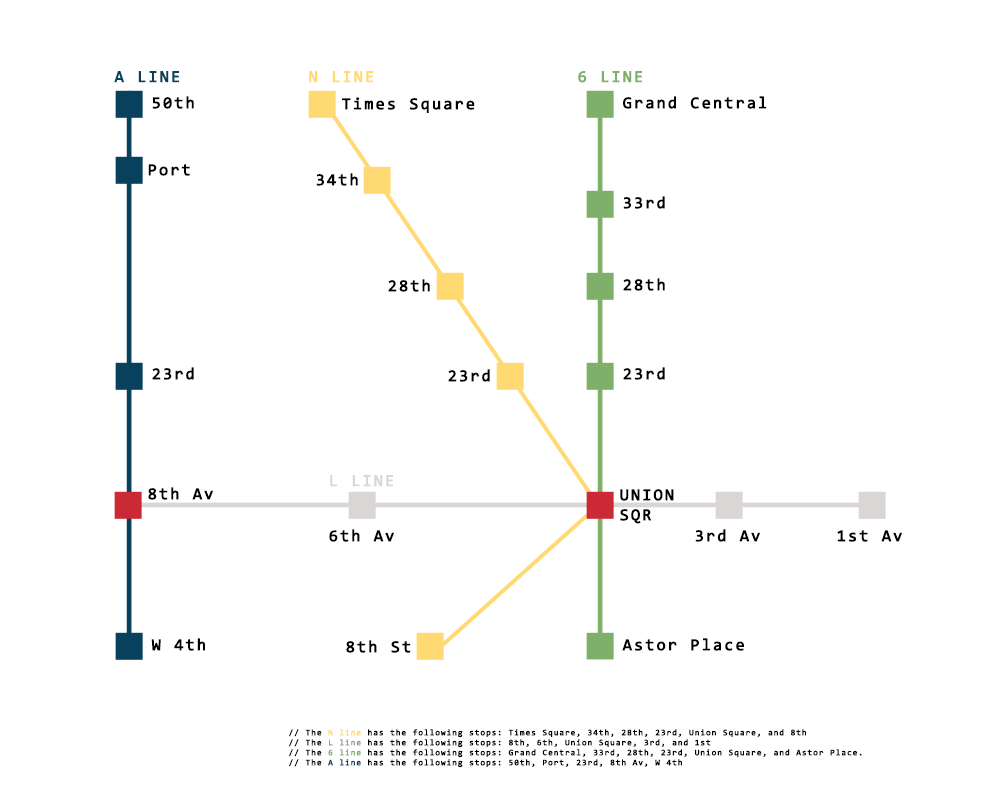
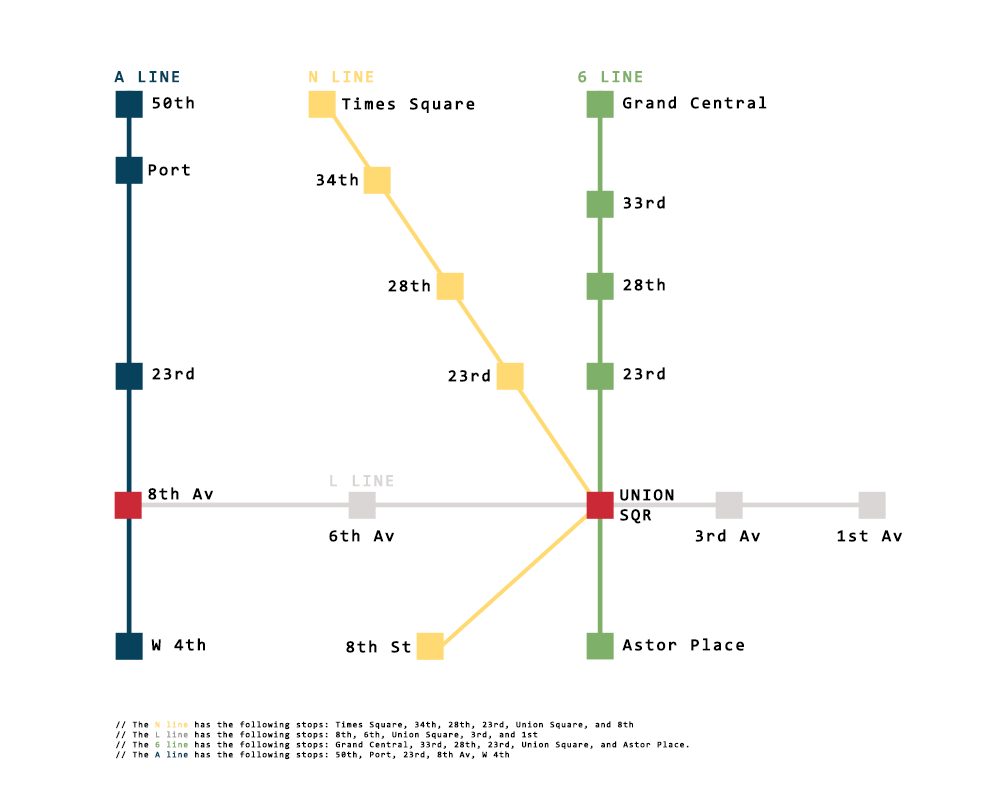
added log for user entering 2 diff lines when they don't need to change re starting point only

Changed region(s): [[0.124, 0.9062, 0.744, 0.9688], [0.775, 0.9062, 0.806, 0.9688]]

diff --git a/madeleine_milasas/week_01/day_05/mta/js/main_rework.js b/madeleine_milasas/week_01/day_05/mta/js/main_rework.js
@@ -11,7 +11,7 @@ const trainLines = {
   L: ['8th Av', '6th Av', 'Union Square', '3rd Av', '1st Av'],
   N: ['Times Square', '34th', '28th (N)', '23rd (N)', 'Union Square', '8th St'],
   6: ['Grand Central', '33rd', '28th (6)', '23rd (6)', 'Union Square', 'Astor Place'],
-  A: ['50th', 'Port', '23rd', '8th Av', 'W 4th']
+  A: ['50th', 'Port', '23rd (A)', '8th Av', 'W 4th']
 };
 const allLines = Object.keys( trainLines );
 
@@ -120,7 +120,13 @@ const planTrip = function ( lOn, sOn, lOff, sOff ) {
     console.log( endStation.error + `\nPlease check your STOP OFF entry and try again.\n----------------------------------` );
     return;
   }
-  // console.log(startLine, endLine);
+
+  // ## check if BOTH STATIONS ARE THE SAME
+  if ( sOn.toUpperCase() === sOff.toUpperCase() ) {
+    console.log( sameStationMsg );
+    return;
+  }
+
   // ** IF START AND END LINES ARE THE SAME **
   if (lOn.toUpperCase() === lOff.toUpperCase()) {
     trip = countStops( startStation.index, endStation.index, startLine.lineArray );
@@ -131,12 +137,26 @@ const planTrip = function ( lOn, sOn, lOff, sOff ) {
   // ** IF START AND END LINES ARE DIFFERENT **
     // find intercept
     const intercept = findIntercept( startLine.lineArray, endLine.lineArray );
-    // console.log( intercept );
+
+    // // ## exception: if user puts starting at an intersection station but enters two different lines
+    // let startStationName = startLine.lineArray[ startStation.index ]; // doing it this way to get correct capitalisation r/less of user input
+    // let interceptStationName = endLine[ intercept.xEndLine ];
+    // console.log( interceptStationName );
+    // // if ( startStationName.toUpperCase() === endLine[ intercept.xEndLine ].toUpperCase() ) {
+    // //   // console.log( `At ${ startStationName }, go straight to the ${ lOff.toUpperCase() } line.` );
+    // // }
+
+    // now evaluate trips...
     // FIRST HALF OF TRIP
     tripA = countStops( startStation.index, intercept.xStartLine, startLine.lineArray );
-    console.log( `You must travel through the following stops on the ${ lOn.toUpperCase() } line: ${ tripA.thru.join(', ') }.` );
-    const interceptStation = startLine.lineArray[ intercept.xStartLine ];
-    console.log( `Change at ${ interceptStation } for the ${ lOff.toUpperCase() } line.` );
+    let interceptStationName = endLine.lineArray[intercept.xEndLine];
+    if (0 === tripA.thru.length) { // if the first leg array is empty, i.e. user mistakenly thinks they need two diff lines
+      console.log( `No need to start on the ${ lOn.toUpperCase() } line.\nGet on the ${ lOff.toUpperCase() } line at ${ interceptStationName }.` );
+    } else {
+      console.log( `You must travel through the following stops on the ${ lOn.toUpperCase() } line: ${ tripA.thru.join(', ') }.` );
+      const interceptStation = startLine.lineArray[ intercept.xStartLine ];
+      console.log( `Change at ${ interceptStation } for the ${ lOff.toUpperCase() } line.` );
+    }
     // SECOND HALF OF TRIP
     tripB = countStops( intercept.xEndLine, endStation.index, endLine.lineArray );
     console.log( `Your journey continues through the following stops: ${ tripB.thru.join(', ') }.` );
@@ -158,6 +178,10 @@ const planTrip = function ( lOn, sOn, lOff, sOff ) {
 // startStationIndex2 = findStation( startLineArray, '8th' );
 
 
+
+
+
+
 const testCases = [
   { lo: 'L', so: '6th Av', lof: 'L', sof: '3rd Av' }, // L line only
   { lo: 'Q', so: '6th Av', lof: 'L', sof: '3rd Av' }, // Bad start line name
@@ -166,10 +190,10 @@ const testCases = [
   { lo: 'L', so: '6th Av', lof: 'N', sof: 'Bar' }, // Bad end station name
   { lo: 'L', so: '8th Av', lof: 'N', sof: '23rd (N)' }, // intercept L and N
   { lo: 'N', so: '8th St', lof: '6', sof: 'Grand Central' }, // intercept N and 6
-  { lo: 'A', so: 'Port', lof: 'L', sof: '1st Av' }, // intercept L and A!
+  { lo: 'A', so: 'Port', lof: 'L', sof: '1st Av' }, // intercept A and L omg A!
+  { lo: 'L', so: '3rd Av', lof: 'A', sof: '50th' }, // intercept L to A
   { lo: 'A', so: 'W 4th', lof: 'a', sof: '50th' }, // just A, also lower case
-  // adding some test cases from first version:
-  { lo: 'L', so: '1st Av', lof: 'L', sof: '8th Av' },  // reverse direction L only
+  { lo: 'L', so: '1st Av', lof: 'L', sof: '8th Av' },  // reverse direction L only ----- this one and ones below from prev version
   { lo: 'N', so: '34th', lof: 'N', sof: '8th St' }, // N line only
   { lo: 'N', so: '8th St', lof: 'N', sof: 'Times Square' },  // reverse direction N only
   { lo: '6', so: 'Grand Central', lof: '6', sof: '23rd (6)' }, // 6 line only
@@ -177,12 +201,13 @@ const testCases = [
   { lo: 'L', so: '8th Av', lof: 'N', sof: 'Times Square' },  // multi lines L to N
   { lo: 'l', so: '1st av', lof: 'n', sof: 'times square' },  // multi lines L to N lower case letters
   { lo: '6', so: 'Astor Place', lof: 'L', sof: '6th Av' },  // multi lines 6 to L
-  { lo: 'N', so: '8th St', lof: '6', sof: '28th (6)' }  // multi lines N to 6
-  // { lo: '6', so: 'Union Square', lof: '6', sof: '33rd' },  // if US is a start on one line
-  // { lo: 'L', so: 'Union Square', lof: '6', sof: '33rd' },  // if US is start but user entered they think they need to change lines
+  { lo: 'N', so: '8th St', lof: '6', sof: '28th (6)' },  // multi lines N to 6
+  { lo: '6', so: 'Union Square', lof: '6', sof: '33rd' },  // if US is a start on one line
+  { lo: 'L', so: 'Union Square', lof: '6', sof: '33rd' },  // if US is start but user entered they think they need to change lines
+  { lo: 'A', so: '8th Av', lof: 'L', sof: '1st Av' },  // if 8th Av is start but user entered they think they need to change lines
   // { lo: 'N', so: '34th', lof: 'L', sof: 'Union Square' },  // if US is destination but user entered they think they need to change lines
-  // { lo: 'L', so: '3rd', lof: 'L', sof: '3rd' },  // if both stations the same (same station same line)
-  // { lo: 'N', so: 'Union Square', lof: '6', sof: 'Union Square' }  // if both stations are Union Square
+  { lo: 'A', so: '23rd (A)', lof: 'A', sof: '23rd (A)' },  // if both stations the same (same station same line)
+  { lo: 'N', so: 'Union Square', lof: '6', sof: 'Union Square' }  // if both stations are Union Square (even if user entered diff lines)
 ];
 
 
